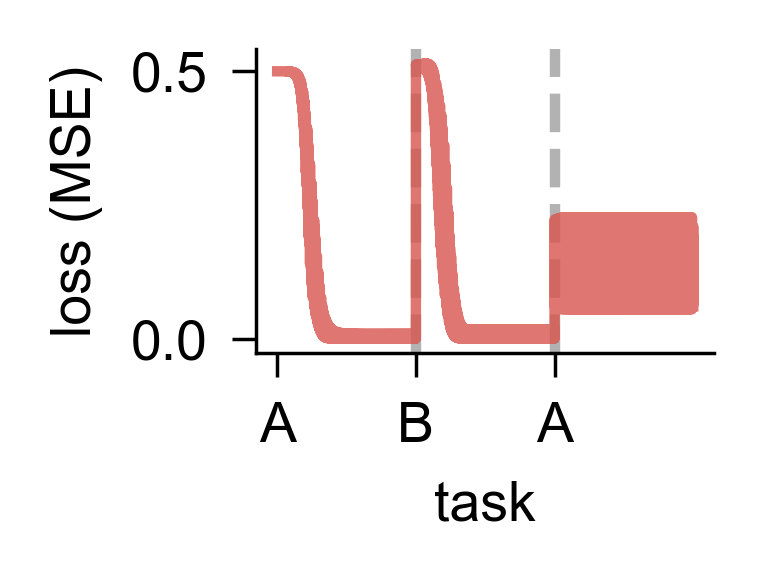
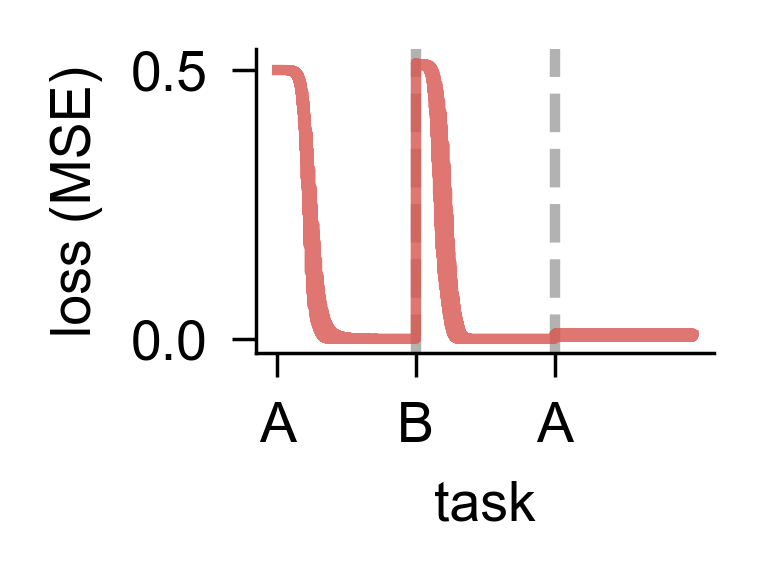
clean up a little the misguided edits which applied noise to rule_applied rather than the loss function fed to the ANN

diff --git a/src/analysis/preprocessing.py b/src/analysis/preprocessing.py
@@ -103,9 +103,8 @@ def add_test_stim(df):
 
     return df
 
-# TODO: remove now-unused error_sds functionality; was an incorrect solution!
-def add_regressors(df, error_sds=(5,5)):
-    """Add additional regressors to dataframe. error_sds is in degrees"""
+def add_regressors(df):
+    """Add additional regressors to dataframe."""
     # Add 'A_rule' and 'B_rule' columns
     df_groupstim = df.groupby(['participant', 'stimID', 'feature_idx', 'task_section'])[['noisy_feedback_value','feat_val']].mean().reset_index()
 
@@ -122,55 +121,10 @@ def add_regressors(df, error_sds=(5,5)):
         df.loc[df['participant'] == p, 'B_rule'] = b_rule
 
     # Calculate 'rule_applied' using vectorized operations
-    # JZ: this is the error signal, I'm pretty sure
     rule_applied = df.loc[df['feature_idx'] == 1, 'dial_resp'].values \
                    - df.loc[df['feature_idx'] == 0, 'noisy_feedback_value'].values
     rule_applied = (rule_applied + np.pi) % (2 * np.pi) - np.pi  # Wrap to [-pi, pi]
     df.loc[df['feature_idx'] == 1, 'rule_applied'] = rule_applied
-
-    # NOW: we scale noise for A_rule and scale noise for B_rule, and overwrite 'rule_applied' (btw, breaks compatibility with modeling participant data)
-    # error signal = response - feedback
-    # error signal = response - (true value + noise)
-    # rule_applied = dial_resp - (feat_val + noise)
-    # rule_applied = dial_resp - noisy_feedback_value
-    # noisy_feedback_value = feat_val + noise
-    # noisy_feedback_value - feat_val = noise
-    # rule_applied = dial_resp - (feat_val + (noisy_feedback_value - feat_val))
-    # so to scale the noise by NOISE_SCALE:
-    # rule_applied = dial_resp - (feat_val + NOISE_SCALE*(noisy_feedback_value - feat_val))
-
-    A_errors = df.loc[(df['feature_idx'] == 0) & (df['taskID'] == 0), 'noisy_feedback_value'].values \
-            - (df.loc[(df['feature_idx'] == 0) & (df['taskID'] == 0), 'feat_val'].values)
-    A_errors = (A_errors + np.pi) % (2 * np.pi) - np.pi # wrap to [-pi, pi]
-
-    B_errors = df.loc[(df['feature_idx'] == 0) & (df['taskID'] == 1), 'noisy_feedback_value'].values \
-            - (df.loc[(df['feature_idx'] == 0) & (df['taskID'] == 1), 'feat_val'].values)
-    B_errors = (B_errors + np.pi) % (2 * np.pi) - np.pi # wrap to [-pi, pi]
-    
-    # now scale the errors differently for each task
-
-    A_ERROR_SD, B_ERROR_SD = error_sds
-    A_ERROR_SCALE = A_ERROR_SD / 5. # default sd is 5 degrees
-    B_ERROR_SCALE = B_ERROR_SD / 5. # default sd in 5 degrees
-
-    A_rule_applied = df.loc[(df['feature_idx'] == 1) & (df['taskID'] == 0), 'dial_resp'].values \
-                   - (df.loc[(df['feature_idx'] == 0) & (df['taskID'] == 0), 'feat_val'].values \
-                   + A_errors * A_ERROR_SCALE)
-
-    B_rule_applied = df.loc[(df['feature_idx'] == 1) & (df['taskID'] == 1), 'dial_resp'].values \
-                   - (df.loc[(df['feature_idx'] == 0) & (df['taskID'] == 1), 'feat_val'].values \
-                   + B_errors * B_ERROR_SCALE)
-
-    A_rule_applied = (A_rule_applied + np.pi) % (2 * np.pi) - np.pi  # Wrap to [-pi, pi]
-    B_rule_applied = (B_rule_applied + np.pi) % (2 * np.pi) - np.pi  # Wrap to [-pi, pi]
-    
-    
-    df.loc[(df['feature_idx'] == 1) & (df['taskID'] == 0), 'rule_applied'] = 0 # A_rule_applied
-    df.loc[(df['feature_idx'] == 1) & (df['taskID'] == 1), 'rule_applied'] = 0 # B_rule_applied
-
-    # from matplotlib import pyplot as plt
-    # plt.hist(errors)
-    # plt.show()
 
     # Add test stim columns
     df = add_test_stim(df)

diff --git a/scripts/01_preprocess_data.py b/scripts/01_preprocess_data.py
@@ -13,11 +13,6 @@ from src.analysis.preprocessing import (
 )
 from src.utils.basic_funcs import set_seed
 
-# ####
-# A_error_sd = int(5)
-# B_error_sd = int(25)
-# ####
-
 def main():
     # Set constants
     SEED = 2024
@@ -25,7 +20,6 @@ def main():
     
     # Define paths
     DATA_FOLDER = 'data/participants/raw'
-    # OUTPUT_PATH = f'data_A-{A_error_sd}_B-{B_error_sd}/participants/trial_df.csv'
     OUTPUT_PATH = 'data/participants/trial_df.csv'
     
     # Define batches
@@ -44,7 +38,7 @@ def main():
     
     # Add regressors and test trial information
     print("Adding regressors and test trial information (and scaling error signal for each task)...")
-    df = add_regressors(df) # , error_sds=(A_error_sd, B_error_sd))
+    df = add_regressors(df)
     
     # Apply exclusions
     print("Applying exclusion criteria...")

diff --git a/scripts/03_fit_vonmises.py b/scripts/03_fit_vonmises.py
@@ -145,7 +145,6 @@ def run_analysis(data_type, sim_name=None, base_folder='./'):
     
     if data_type == 'participants':
         # Load and fit participant data
-        # TODO if using this file, change to the specific trial_df for the given error scale for A and B
         participant_data = pd.read_csv(os.path.join(data_folder, 'participants', 'trial_df.csv'))
         grouped_df = fit_human_data(participant_data)
         output_path = os.path.join(data_folder, 'participants', 'human_vonmises_fits.csv')
@@ -154,6 +153,7 @@ def run_analysis(data_type, sim_name=None, base_folder='./'):
         if not sim_name:
             raise ValueError("Simulation name must be provided for simulation data")
         # Load and fit simulation data
+        # TODO: use simulations folder based on A_error_sd and B_error_sd
         ann_data = ann.load_ann_data(os.path.join(data_folder, 'simulations', sim_name))
         grouped_df = fit_ann_data(ann_data)
         output_path = os.path.join(data_folder, 'simulations', f'{sim_name}_vonmises_fits.csv')

diff --git a/scripts/02_run_simulations.py b/scripts/02_run_simulations.py
@@ -37,7 +37,6 @@ def run_experiment(condition_name, base_folder='./'):
     set_seed(2024)
     
     # Setup paths
-    # data_folder = os.path.join(base_folder, f'data_A-{A_error_sd}_B-{B_error_sd}')
     data_folder = os.path.join(base_folder, 'data')
     config_path = os.path.join(base_folder, 'src', 'models', 'ann_experiments.json')
     

diff --git a/COGS-202-notes.md b/COGS-202-notes.md
@@ -10,3 +10,6 @@ Then:
 2. `uv run scripts/02_run_simulations.py rich_50` (first, update A_error_sd and B_error_sd in that script)
 3. `uv run scripts/02_run_simulations.py lazy_50` (first, update A_error_sd and B_error_sd in that script)
 4. `notebooks/figure2_transfer_interference.ipynb` / `notebooks/figure3_anns.ipynb` / `notebooks/figure4_individual_differences.ipynb`
+
+TODO: Use all 305 subjects instead of just randomly sampled 20
+And see any other TODOs in source